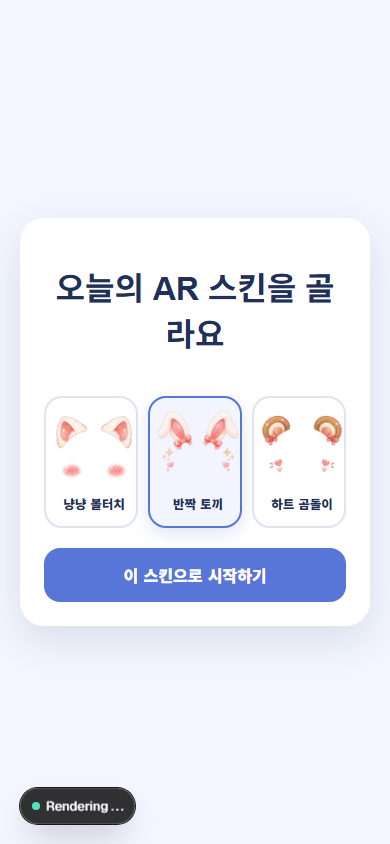
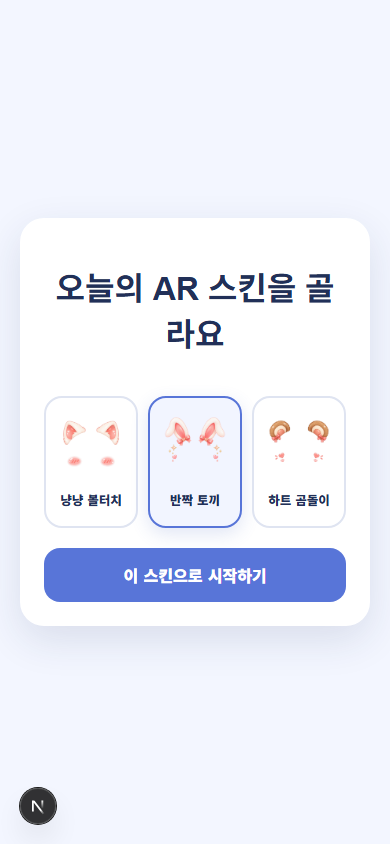
fix: align and smooth mobile ar skins

diff --git a/src/features/ar-skins/face-pose.ts b/src/features/ar-skins/face-pose.ts
@@ -7,7 +7,7 @@ export type FacePose = {
   rotationDeg: number;
 };
 
-const REQUIRED_INDICES = [33, 263, 10, 234, 454] as const;
+const REQUIRED_INDICES = [33, 263, 10, 152, 234, 454] as const;
 
 export function facePoseFromLandmarks(
   landmarks: FaceLandmarkPoint[],
@@ -17,7 +17,8 @@ export function facePoseFromLandmarks(
     return null;
   }
 
-  const [leftEye, rightEye, forehead, leftEdge, rightEdge] = points as [
+  const [leftEye, rightEye, forehead, chin, leftEdge, rightEdge] = points as [
+    FaceLandmarkPoint,
     FaceLandmarkPoint,
     FaceLandmarkPoint,
     FaceLandmarkPoint,
@@ -29,7 +30,7 @@ export function facePoseFromLandmarks(
 
   return {
     centerX: (leftEdge.x + rightEdge.x) / 2,
-    centerY: forehead.y,
+    centerY: (forehead.y + chin.y) / 2,
     width,
     rotationDeg: Math.atan2(rightEye.y - leftEye.y, rightEye.x - leftEye.x) * 180 / Math.PI,
   };
@@ -46,14 +47,53 @@ export function mirrorPose(pose: FacePose): FacePose {
 export function smoothFacePose(
   previous: FacePose | null,
   next: FacePose,
-  alpha = 0.35,
+  alpha?: number,
 ): FacePose {
   if (!previous) return next;
-  const mix = (from: number, to: number) => from + (to - from) * alpha;
+  const faceWidth = Math.max(next.width, 0.01);
+  const movement = Math.hypot(
+    next.centerX - previous.centerX,
+    next.centerY - previous.centerY,
+  ) / faceWidth;
+  const scaleChange = Math.abs(next.width - previous.width) / faceWidth;
+  const rotationChange = Math.abs(next.rotationDeg - previous.rotationDeg) / 45;
+  const adaptiveAlpha = Math.min(0.85, Math.max(
+    0.25,
+    0.25 + Math.max(movement, scaleChange, rotationChange) * 0.75,
+  ));
+  const blend = alpha ?? adaptiveAlpha;
+  const mix = (from: number, to: number) => from + (to - from) * blend;
   return {
     centerX: mix(previous.centerX, next.centerX),
     centerY: mix(previous.centerY, next.centerY),
     width: mix(previous.width, next.width),
     rotationDeg: mix(previous.rotationDeg, next.rotationDeg),
+  };
+}
+
+export function mapFacePoseToCover(
+  pose: FacePose,
+  stageSize: { width: number; height: number },
+  videoSize: { width: number; height: number },
+): FacePose {
+  if (
+    stageSize.width <= 0 || stageSize.height <= 0
+    || videoSize.width <= 0 || videoSize.height <= 0
+  ) return pose;
+
+  const coverScale = Math.max(
+    stageSize.width / videoSize.width,
+    stageSize.height / videoSize.height,
+  );
+  const displayedWidth = videoSize.width * coverScale;
+  const displayedHeight = videoSize.height * coverScale;
+  const cropX = (displayedWidth - stageSize.width) / 2;
+  const cropY = (displayedHeight - stageSize.height) / 2;
+
+  return {
+    centerX: (pose.centerX * displayedWidth - cropX) / stageSize.width,
+    centerY: (pose.centerY * displayedHeight - cropY) / stageSize.height,
+    width: pose.width * displayedWidth / stageSize.width,
+    rotationDeg: pose.rotationDeg,
   };
 }

diff --git a/src/features/ar-skins/ar-camera-preview.tsx b/src/features/ar-skins/ar-camera-preview.tsx
@@ -7,7 +7,7 @@ import type { FaceTracker } from "@/lib/face-tracking/face-tracker";
 import type { ToothbrushLikeDetector } from "@/features/brushing-session/toothbrush-like-detector";
 
 import { FacePresenceClock } from "./face-presence-clock";
-import { mirrorPose, smoothFacePose, type FacePose } from "./face-pose";
+import { mapFacePoseToCover, mirrorPose, smoothFacePose, type FacePose } from "./face-pose";
 import { boundedOverlayStyle, type PixelSize } from "./bounded-overlay";
 import type { ArSkin } from "./skin-registry";
 import styles from "./ar-camera-preview.module.css";
@@ -45,6 +45,7 @@ export function ArCameraPreview({
   const [hasDetectedFace, setHasDetectedFace] = useState(false);
   const [failed, setFailed] = useState(false);
   const [stageSize, setStageSize] = useState<PixelSize | null>(null);
+  const [videoSize, setVideoSize] = useState<PixelSize | null>(null);
   const [imageMeasurement, setImageMeasurement] = useState<(PixelSize & { src: string }) | null>(null);
 
   useEffect(() => { elapsedRef.current = elapsedSec; }, [elapsedSec]);
@@ -90,6 +91,14 @@ export function ArCameraPreview({
       setDetected(visible);
       if (result.pose) {
         setHasDetectedFace(true);
+        const currentVideo = videoRef.current;
+        if (currentVideo?.videoWidth && currentVideo.videoHeight) {
+          setVideoSize((current) => (
+            current?.width === currentVideo.videoWidth && current.height === currentVideo.videoHeight
+              ? current
+              : { width: currentVideo.videoWidth, height: currentVideo.videoHeight }
+          ));
+        }
         const mirrored = mirrorPose(result.pose);
         setPose((previous) => smoothFacePose(previous, mirrored));
       } else {
@@ -128,8 +137,11 @@ export function ArCameraPreview({
   }, [onFaceDetectedSecChange, tracker]);
 
   const imageSize = imageMeasurement?.src === skin.src ? imageMeasurement : null;
-  const style = pose && stageSize && imageSize
-    ? boundedOverlayStyle(pose, skin.calibration, stageSize, imageSize, 8)
+  const displayPose = pose && stageSize && videoSize
+    ? mapFacePoseToCover(pose, stageSize, videoSize)
+    : pose;
+  const style = displayPose && stageSize && imageSize
+    ? boundedOverlayStyle(displayPose, skin.calibration, stageSize, imageSize, 8)
     : null;
 
   return (

diff --git a/tests/features/ar-skins/face-pose.test.ts b/tests/features/ar-skins/face-pose.test.ts
@@ -12,12 +12,14 @@ function makeLandmarks({
   leftEye,
   rightEye,
   forehead,
+  chin,
   leftEdge,
   rightEdge,
 }: {
   leftEye: Point;
   rightEye: Point;
   forehead: Point;
+  chin: Point;
   leftEdge: Point;
   rightEdge: Point;
 }) {
@@ -25,6 +27,7 @@ function makeLandmarks({
   landmarks[33] = { x: leftEye[0], y: leftEye[1] };
   landmarks[263] = { x: rightEye[0], y: rightEye[1] };
   landmarks[10] = { x: forehead[0], y: forehead[1] };
+  landmarks[152] = { x: chin[0], y: chin[1] };
   landmarks[234] = { x: leftEdge[0], y: leftEdge[1] };
   landmarks[454] = { x: rightEdge[0], y: rightEdge[1] };
   return landmarks;
@@ -36,11 +39,12 @@ describe("face pose", () => {
       leftEye: [0.3, 0.4],
       rightEye: [0.7, 0.5],
       forehead: [0.5, 0.2],
+      chin: [0.5, 0.8],
       leftEdge: [0.2, 0.5],
       rightEdge: [0.8, 0.5],
     }));
 
-    expect(pose).toMatchObject({ centerX: 0.5, centerY: 0.2 });
+    expect(pose).toMatchObject({ centerX: 0.5, centerY: 0.5 });
     expect(pose?.width).toBeCloseTo(0.6, 5);
     expect(pose?.rotationDeg).toBeCloseTo(14.04, 1);
   });
@@ -64,12 +68,26 @@ describe("face pose", () => {
     expect(smoothed.width).toBeCloseTo(0.6, 5);
   });
 
+  it("responds quickly to a large face movement while damping small jitter", () => {
+    const previous = { centerX: 0.2, centerY: 0.3, width: 0.4, rotationDeg: 0 };
+    const largeMove = smoothFacePose(previous, {
+      centerX: 0.8, centerY: 0.6, width: 0.5, rotationDeg: 18,
+    });
+    const smallJitter = smoothFacePose(previous, {
+      centerX: 0.204, centerY: 0.303, width: 0.401, rotationDeg: 0.4,
+    });
+
+    expect(largeMove.centerX).toBeGreaterThan(0.6);
+    expect(smallJitter.centerX).toBeLessThan(0.202);
+  });
+
   it("rejects an incomplete or non-finite landmark set", () => {
     expect(facePoseFromLandmarks([])).toBeNull();
     const landmarks = makeLandmarks({
       leftEye: [Number.NaN, 0.4],
       rightEye: [0.7, 0.5],
       forehead: [0.5, 0.2],
+      chin: [0.5, 0.8],
       leftEdge: [0.2, 0.5],
       rightEdge: [0.8, 0.5],
     });

diff --git a/tests/features/ar-skins/ar-camera-preview.test.tsx b/tests/features/ar-skins/ar-camera-preview.test.tsx
@@ -126,7 +126,7 @@ describe("ArCameraPreview", () => {
     }));
 
     const overlay = loadOverlay();
-    expect(overlay).toHaveStyle({ left: "192px", top: "92.3px", width: "120px" });
+    expect(overlay).toHaveStyle({ left: "192px", top: "156.2px", width: "120px" });
     expect(overlay.getAttribute("style")).toContain("rotate(-8deg)");
     unmount();
     expect(tracker.stop).toHaveBeenCalled();
@@ -144,6 +144,22 @@ describe("ArCameraPreview", () => {
     const overlay = loadOverlay();
     expect(overlay).toHaveStyle({ left: "166.4px", top: "124.96px", width: "96px" });
     expect(overlay.getAttribute("style")).toContain("rotate(5deg)");
+  });
+
+  it("maps face coordinates through a cropped landscape camera on a portrait phone", async () => {
+    const { tracker, emit } = fixture();
+    render(<ArCameraPreview stream={{} as MediaStream} skin={AR_SKINS.rabbit} tracker={tracker} elapsedSec={1} onFaceDetectedSecChange={vi.fn()} />);
+    await act(async () => undefined);
+    const video = screen.getByLabelText("내 얼굴 카메라 미리보기");
+    Object.defineProperties(video, {
+      videoWidth: { configurable: true, value: 640 },
+      videoHeight: { configurable: true, value: 480 },
+    });
+
+    act(() => emit({ detected: true, pose: { centerX: 0.5, centerY: 0.5, width: 0.2, rotationDeg: 0 }, nowMs: 100 }));
+    const overlay = loadOverlay(1200, 1200);
+
+    expect(overlay).toHaveStyle({ left: "160px", top: "257.115px", width: "227.2px" });
   });
 
   it("keeps the overlay hidden until measured and recomputes it after a mobile resize", async () => {

diff --git a/src/features/ar-skins/skin-registry.ts b/src/features/ar-skins/skin-registry.ts
@@ -11,9 +11,9 @@ export type ArSkin = {
 };
 
 export const AR_SKINS = {
-  cat: { id: "cat", label: "냥냥 볼터치", src: "/ar-skins/cat.png", calibration: { anchorX: 0, anchorY: -0.38, scale: 1.42, rotationOffset: 0 }, bundled: true },
-  rabbit: { id: "rabbit", label: "반짝 토끼", src: "/ar-skins/rabbit.png", calibration: { anchorX: 0, anchorY: -0.55, scale: 1.5, rotationOffset: 0 }, bundled: true },
-  bear: { id: "bear", label: "하트 곰돌이", src: "/ar-skins/bear.png", calibration: { anchorX: 0, anchorY: -0.36, scale: 1.4, rotationOffset: 0 }, bundled: true },
+  cat: { id: "cat", label: "냥냥 볼터치", src: "/ar-skins/cat.png", calibration: { anchorX: 0, anchorY: -0.1, scale: 1.42, rotationOffset: 0 }, bundled: true },
+  rabbit: { id: "rabbit", label: "반짝 토끼", src: "/ar-skins/rabbit.png", calibration: { anchorX: 0, anchorY: -0.1, scale: 1.5, rotationOffset: 0 }, bundled: true },
+  bear: { id: "bear", label: "하트 곰돌이", src: "/ar-skins/bear.png", calibration: { anchorX: 0, anchorY: -0.08, scale: 1.4, rotationOffset: 0 }, bundled: true },
   crown: { id: "crown", label: "양치왕 왕관", src: "/ar-skins/crown.png", calibration: { anchorX: 0, anchorY: -0.5, scale: 1.28, rotationOffset: 0 }, bundled: true },
 } as const satisfies Record<BasicSkinId | "crown", ArSkin>;
 

diff --git a/tests/lib/face-tracking/mediapipe-face-tracker.test.ts b/tests/lib/face-tracking/mediapipe-face-tracker.test.ts
@@ -15,6 +15,7 @@ function validLandmarks() {
   landmarks[33] = { x: 0.3, y: 0.4 };
   landmarks[263] = { x: 0.7, y: 0.4 };
   landmarks[10] = { x: 0.5, y: 0.2 };
+  landmarks[152] = { x: 0.5, y: 0.8 };
   landmarks[234] = { x: 0.2, y: 0.5 };
   landmarks[454] = { x: 0.8, y: 0.5 };
   return landmarks;
@@ -69,18 +70,18 @@ describe("MediaPipe face tracker", () => {
     expect(test.detectForVideo).not.toHaveBeenCalled();
   });
 
-  it("runs no more than fifteen inferences per second", async () => {
+  it("runs no more than twenty inferences per second", async () => {
     const test = harness();
     const onResult = vi.fn();
     await test.tracker.start(fakeVideo(), onResult);
 
     test.runFrame(0);
     test.runFrame(20);
-    test.runFrame(67);
+    test.runFrame(50);
     test.runFrame(100);
 
-    expect(test.detectForVideo).toHaveBeenCalledTimes(2);
-    expect(onResult).toHaveBeenCalledTimes(2);
+    expect(test.detectForVideo).toHaveBeenCalledTimes(3);
+    expect(onResult).toHaveBeenCalledTimes(3);
     expect(onResult.mock.calls[0][0]).toMatchObject({ detected: true, nowMs: 0 });
   });
 

diff --git a/e2e/ar-brushing.spec.ts b/e2e/ar-brushing.spec.ts
@@ -47,6 +47,14 @@ test("student chooses a skin and free brushing records measured time", async ({ 
   await page.clock.install({ time: new Date("2026-09-23T03:00:00Z") });
   await join(page);
   await page.getByRole("button", { name: "자유 양치" }).click();
+  for (const card of await page.getByRole("radio").all()) {
+    const cardBox = await card.boundingBox();
+    const imageBox = await card.locator("img").boundingBox();
+    expect(cardBox).not.toBeNull();
+    expect(imageBox).not.toBeNull();
+    expect(imageBox!.x).toBeGreaterThanOrEqual(cardBox!.x + 8);
+    expect(imageBox!.x + imageBox!.width).toBeLessThanOrEqual(cardBox!.x + cardBox!.width - 8);
+  }
   await page.getByRole("radio", { name: "반짝 토끼" }).click();
   if (process.env.CAPTURE_VISUALS === "1") {
     await page.screenshot({ path: "docs/screenshots/ar-animal-selection.png", fullPage: true });

diff --git a/src/lib/face-tracking/mediapipe-face-tracker.ts b/src/lib/face-tracking/mediapipe-face-tracker.ts
@@ -21,7 +21,7 @@ type FaceTrackerDependencies = {
 const WASM_PATH = "/mediapipe/wasm";
 // SHA-256: 64184E229B263107BC2B804C6625DB1341FF2BB731874B0BCC2FE6544E0BC9FF
 const MODEL_PATH = "/mediapipe/models/face_landmarker.task";
-const MIN_INFERENCE_INTERVAL_MS = 66;
+const MIN_INFERENCE_INTERVAL_MS = 50;
 
 async function createBrowserLandmarker(): Promise<Landmarker> {
   const { FaceLandmarker, FilesetResolver } = await import("@mediapipe/tasks-vision");

diff --git a/tests/features/ar-skins/bounded-overlay.test.ts b/tests/features/ar-skins/bounded-overlay.test.ts
@@ -23,7 +23,7 @@ describe("boundedOverlayStyle", () => {
     );
 
     expect(style).toMatchObject({ left: "248px", top: "136px", width: "256px" });
-    expect(style?.transform).toContain("rotate(90deg)");
+    expect(style?.transform).toBe("translate3d(-50%, -50%, 0) rotate(90deg)");
   });
 
   it("returns no style until stage and image dimensions are valid", () => {

diff --git a/src/features/ar-skins/ar-camera-preview.module.css b/src/features/ar-skins/ar-camera-preview.module.css
@@ -9,9 +9,10 @@
   z-index: 1;
   height: auto;
   pointer-events: none;
-  transform: translate(-50%, -50%);
+  transform: translate3d(-50%, -50%, 0);
   transform-origin: center;
   filter: drop-shadow(0 4px 8px rgb(0 0 0 / 18%));
+  backface-visibility: hidden;
   will-change: left, top, width, transform;
 }
 

diff --git a/src/features/ar-skins/bounded-overlay.ts b/src/features/ar-skins/bounded-overlay.ts
@@ -67,7 +67,7 @@ export function boundedOverlayStyle(
     left: px(centerX),
     top: px(centerY),
     width: px(width),
-    transform: `translate(-50%, -50%) rotate(${rotationDeg}deg)`,
+    transform: `translate3d(-50%, -50%, 0) rotate(${rotationDeg}deg)`,
     visibility: "visible",
   };
 }

diff --git a/src/features/ar-skins/skin-selector.module.css b/src/features/ar-skins/skin-selector.module.css
@@ -26,8 +26,8 @@
 
 .preview {
   position: relative;
-  width: 84px;
-  height: 84px;
+  width: min(68px, calc(100% - 16px));
+  height: 68px;
 }
 
 .preview img {
